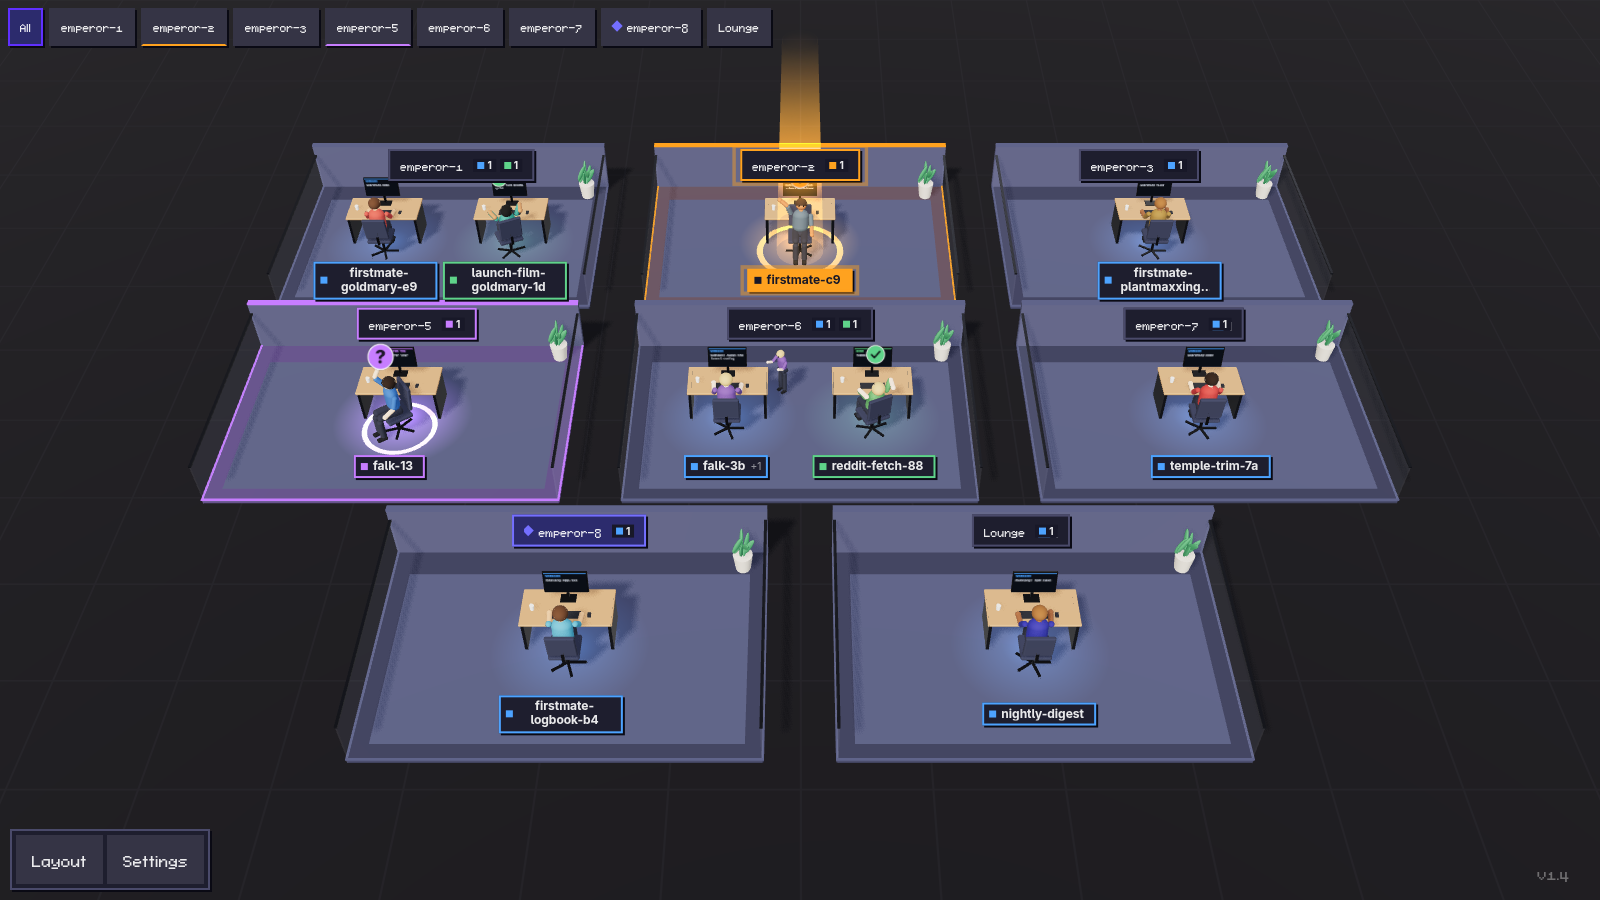
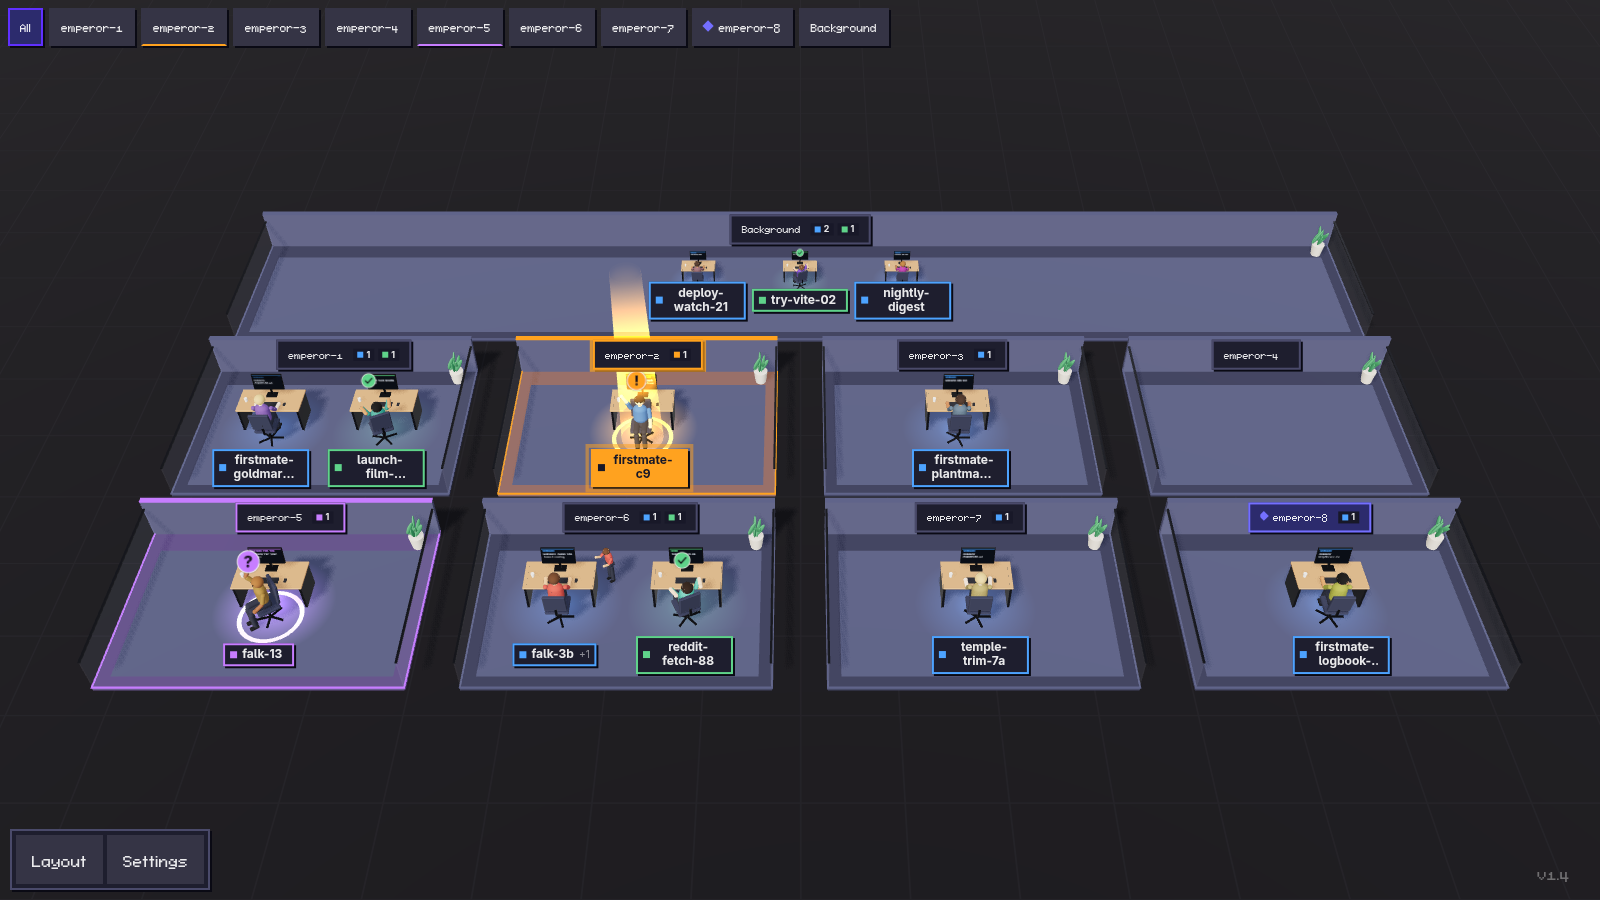
docs(office3d): screenshots of the rooms and background strip
The overview and phone shots showed the Lounge room, which the
background strip replaced. Also note that a two-line room title on a
phone can cover the last name of the list behind it.

diff --git a/docs/office3d.md b/docs/office3d.md
@@ -59,6 +59,8 @@
 - Geometry dimensions are inline in `assets.ts` rather than in `constants.ts`.
 - In the overview the "!" badge can sit under its room label; the beam above the room compensates.
 - On phones a roster name longer than the room plus half the gap is ellipsised.
+- On phones a room title with two status counts wraps to two lines and can cover the last name of the list
+  behind it.
 - The Office3D chunk is about 600 kB (lazy-loaded) and trips Vite's chunk-size warning.
 - Frame rates were only seen under SwiftShader, so real-GPU performance is not measured.
 - A viewer holding the server token gets the first-run tour, which shows the pixel view, and its game loop
